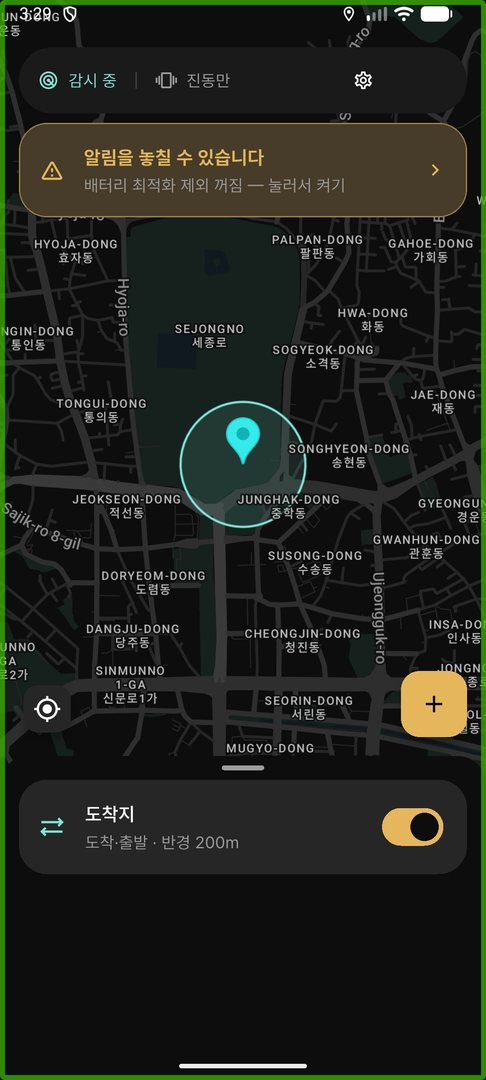
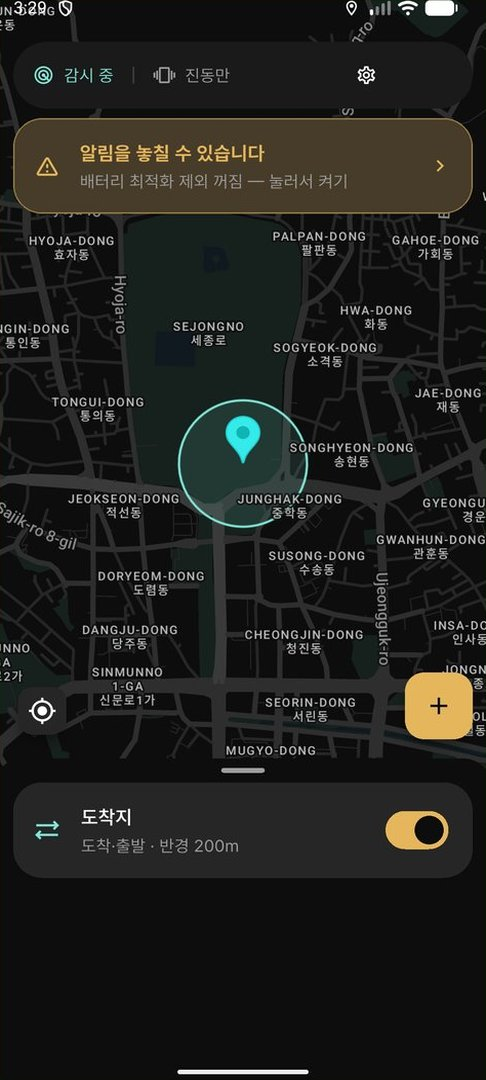
소개 페이지가 아직 옛 로고를 쓰고 스크린샷에 에뮬레이터 테두리가 남아 있다 : fix : 앱 아이콘에서 로고·파비콘·공유 이미지를 파생시키고 초록 테두리를 잘라낸다 https://github.com/Cassiiopeia/EarLocAlert/issues/150

diff --git a/index.html b/index.html
@@ -8,7 +8,14 @@
 <meta property="og:title" content="이어폰위치알림">
 <meta property="og:description" content="내릴 곳을 놓치지 않게, 조용히. 스피커로는 소리가 나지 않습니다.">
 <meta property="og:type" content="website">
+<meta property="og:image" content="https://cassiiopeia.github.io/EarLocAlert/icon/og.png">
+<meta property="og:image:width" content="1200">
+<meta property="og:image:height" content="630">
+<meta property="og:url" content="https://cassiiopeia.github.io/EarLocAlert/">
+<meta name="twitter:card" content="summary_large_image">
 <meta name="theme-color" content="#0b0d0c">
+<link rel="icon" type="image/png" sizes="32x32" href="icon/favicon-32.png">
+<link rel="apple-touch-icon" sizes="180x180" href="icon/favicon-180.png">
 <link rel="stylesheet" href="style.css">
 </head>
 <body>
@@ -16,10 +23,7 @@
 <nav class="nav">
   <div class="nav-in">
     <a class="nav-brand" href="./">
-      <svg width="24" height="24" viewBox="0 0 24 34" fill="none" aria-hidden="true">
-        <path d="M12 0C5.4 0 0 5.4 0 12c0 9 12 22 12 22s12-13 12-22C24 5.4 18.6 0 12 0z" fill="#e8b75c"/>
-        <circle cx="12" cy="12" r="4.6" fill="#0b0d0c"/>
-      </svg>
+      <img class="brand-mark" src="icon/pin.png" width="20" height="29" alt="" aria-hidden="true">
       이어폰위치알림
     </a>
     <div class="nav-links">

diff --git a/privacy.html b/privacy.html
@@ -6,16 +6,15 @@
 <title>개인정보 처리방침 · 이어폰위치알림</title>
 <meta name="description" content="이어폰위치알림이 어떤 정보를 다루고, 무엇을 밖으로 보내고 무엇을 보내지 않는지 설명합니다.">
 <meta name="theme-color" content="#0b0d0c">
+<link rel="icon" type="image/png" sizes="32x32" href="icon/favicon-32.png">
+<link rel="apple-touch-icon" sizes="180x180" href="icon/favicon-180.png">
 <link rel="stylesheet" href="style.css">
 </head>
 <body>
 <nav class="nav">
   <div class="nav-in">
     <a class="nav-brand" href="./">
-      <svg width="24" height="24" viewBox="0 0 24 34" fill="none" aria-hidden="true">
-        <path d="M12 0C5.4 0 0 5.4 0 12c0 9 12 22 12 22s12-13 12-22C24 5.4 18.6 0 12 0z" fill="#e8b75c"/>
-        <circle cx="12" cy="12" r="4.6" fill="#0b0d0c"/>
-      </svg>
+      <img class="brand-mark" src="icon/pin.png" width="20" height="29" alt="" aria-hidden="true">
       이어폰위치알림
     </a>
     <div class="nav-links">

diff --git a/privacy-en.html b/privacy-en.html
@@ -6,16 +6,15 @@
 <title>Privacy Policy · EarLocAlert</title>
 <meta name="description" content="What information EarLocAlert handles, what leaves the device, and what does not.">
 <meta name="theme-color" content="#0b0d0c">
+<link rel="icon" type="image/png" sizes="32x32" href="icon/favicon-32.png">
+<link rel="apple-touch-icon" sizes="180x180" href="icon/favicon-180.png">
 <link rel="stylesheet" href="style.css">
 </head>
 <body>
 <nav class="nav">
   <div class="nav-in">
     <a class="nav-brand" href="./">
-      <svg width="24" height="24" viewBox="0 0 24 34" fill="none" aria-hidden="true">
-        <path d="M12 0C5.4 0 0 5.4 0 12c0 9 12 22 12 22s12-13 12-22C24 5.4 18.6 0 12 0z" fill="#e8b75c"/>
-        <circle cx="12" cy="12" r="4.6" fill="#0b0d0c"/>
-      </svg>
+      <img class="brand-mark" src="icon/pin.png" width="20" height="29" alt="" aria-hidden="true">
       EarLocAlert
     </a>
     <div class="nav-links">

diff --git a/style.css b/style.css
@@ -51,6 +51,9 @@ a:hover { text-decoration: underline; }
 }
 .nav-brand { display: flex; align-items: center; gap: 10px; font-weight: 700; color: var(--text); }
 .nav-brand:hover { text-decoration: none; }
+/* 앱 아이콘에서 그대로 딴 핀. 인라인 SVG 로 따로 그리면 아이콘이 바뀔 때
+   또 어긋난다 (스플래시가 두 달 그랬다) */
+.brand-mark { display: block; width: 20px; height: auto; }
 .nav-links { margin-left: auto; display: flex; gap: 22px; font-size: 15px; }
 .nav-links a { color: var(--muted); }
 .nav-links a:hover { color: var(--text); text-decoration: none; }
